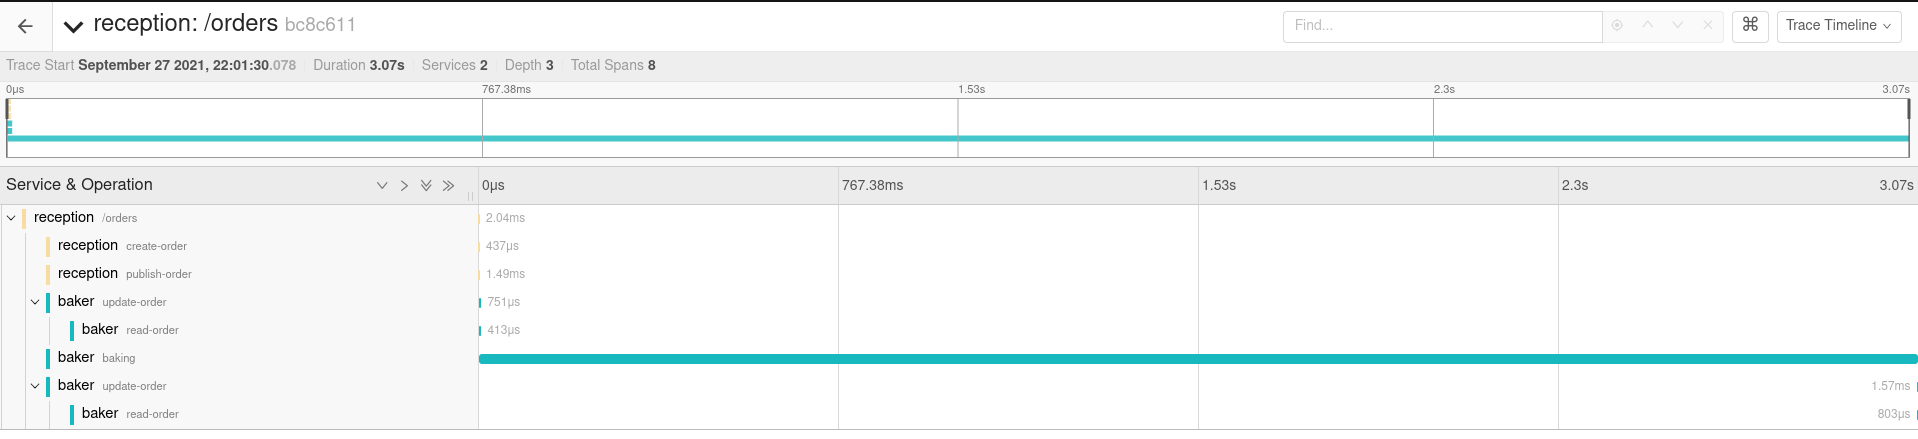
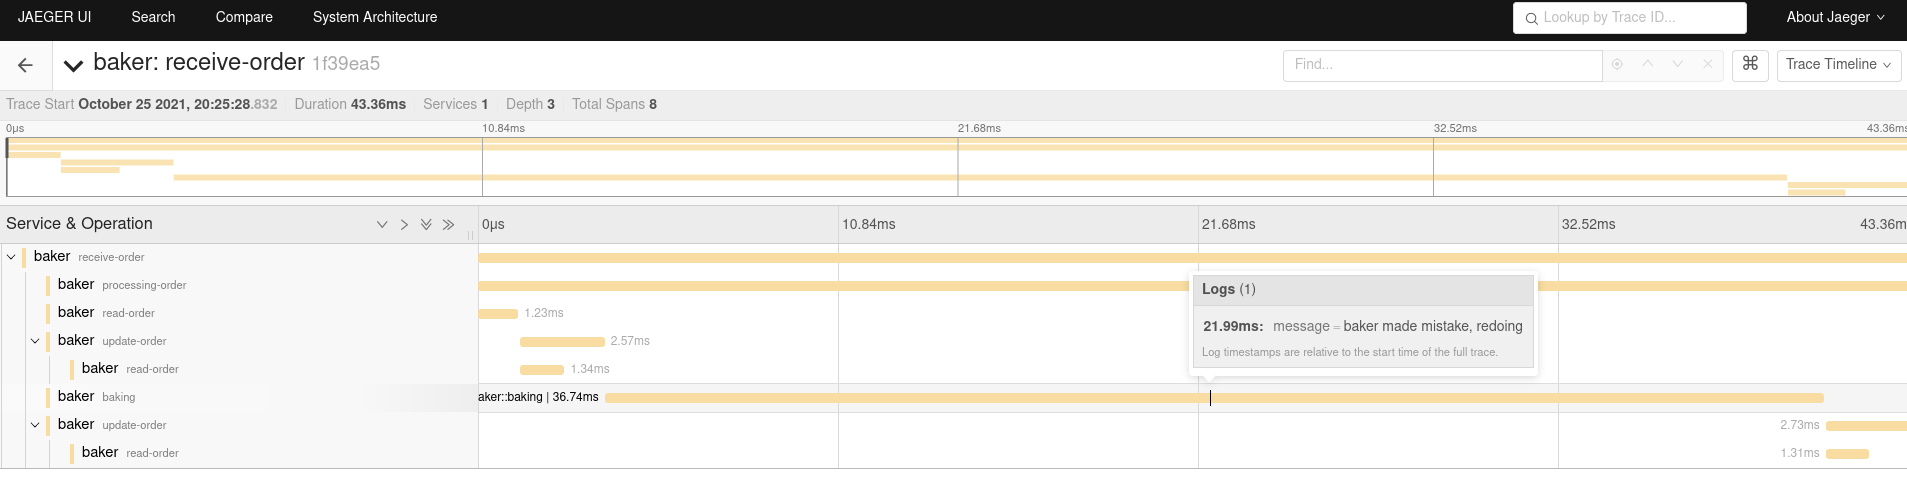
updated README, moved loadtest to become a manually triggered tilt job

Changed region(s): [[0.0, 0.1185, 1.0, 0.9772], [0.0, 0.0, 1.0, 0.1481]]

diff --git a/README.md b/README.md
@@ -1,14 +1,19 @@
 # Bakery
 
-_Bakery_ is a very simple distributed service I used to learn how to use [Tilt](https://tilt.dev/) and the [OpenTelemetry](https://opentelemetry.io/) Go API.  It consists of 4 parts:  
+
+
+_Bakery_ is a very simple distributed service I used to learn how to use [Tilt](https://tilt.dev/) and the [OpenTelemetry](https://opentelemetry.io/) Go API.  It consists of 5 parts:  
 * 'Reception' - a HTTP server that publishes to a queue  
 * 'Baker' - a queue consumer  
 * A [RabbitMQ](https://rabbitmq.com/) queue broker  
 * A [Redis](https://redis.io/) database used to persist data between the publisher and consumer  
+* An [OpenTelemetry collector](https://opentelemetry.io/docs/collector/) which is functioning as both an [agent](https://opentelemetry.io/docs/collector/getting-started/#agent) and [gateway](https://opentelemetry.io/docs/collector/getting-started/#gateway)
 
 ![Basic architecture diagram showing 'reception' using a publishing to a queue and using a database and 'baker' consuming from the queue and using the same database](doc/img/overview.png)
 
-Additionally, when run with Tilt a [Jaeger](https://www.jaegertracing.io/) service is started that 'Baker' and 'Reception' will publish traces to.
+Additionally, when run with Tilt, two additional tools are made available:  
+* a [Jaeger](https://www.jaegertracing.io/) service is started that the OpenTelemetry collector will export metrics to  
+* a [k6](https://k6.io/) job that can be manually triggered to run a loadtest
 
 ## Running  
 
@@ -76,11 +81,75 @@ $ curl -s http://localhost:8000/orders/1d5fba984abea5a7de4e2de5d1462bd3 | jq
 
 Examine traces in Jaeger by browing the exposed endpoint (http://localhost:16686):
 
-![Jaeger UI showing a full collapsed trace](doc/img/jaeger-trace.png)
+![Jaeger UI showing a full trace with a log event](doc/img/jaeger-trace.png)
 
-![Jarger UI showing expanded sections of a trace](doc/img/jaeger-expand.png)
+![Jaeger UI showing a link from a consumer trace to a producer trace](doc/img/jaeger-trace2.png)
 
-# Clean up
+![Jaeger UI showing linked producer trace](doc/img/jaeger-trace3.png)
+
+## Generating lots of data
+
+A k6 loadtest is provided to help generate enough data to meaningful interrogate the backend. Trigger the `k6` job from the UI and it will run a 15m loadtest. If you're using a service with ingest limits or that you pay for ingestion, be aware that this loadtest produces about 190k events. For the purpose of searching for traces, the `bakery.pastry` tag/attribute could have the following values:  
+
+* "croissant"  
+* "kouign-amann"  
+* "la bombe"  
+* "escargot"  
+* "almond croissant"  
+* "profiterole"  
+* "caramel tart"  
+
+## Adding different trace destinations
+
+The OpenTelemetry collector is configured by the `otel-collector-config` ConfigMap in `tilt/tracing.yaml`. For example, if you want to add Honeycomb, modify the data as following:
+
+```yaml
+---
+apiVersion: v1
+kind: ConfigMap
+metadata:
+  name: otel-collector-config
+data:
+  otel-collector-config: |
+    receivers:
+      otlp:
+        protocols:
+          grpc:
+          http:
+    exporters:
+      otlp:
+        endpoint: "jaeger:55680"
+        insecure: true
+      otlp/2:
+        endpoint: "api.honeycomb.io:443"
+        headers:
+          "x-honeycomb-team": YOUR_API_KEY
+          "x-honeycomb-dataset": YOUR_DATASET_NAME
+    processors:
+      batch:
+      memory_limiter:
+        ballast_size_mib: 165
+        limit_mib: 400
+        spike_limit_mib: 100
+        check_interval: 5s
+    extensions:
+      zpages: {}
+    service:
+      extensions:
+        - zpages
+      pipelines:
+        traces:
+          receivers:
+            - otlp
+          processors:
+            - memory_limiter
+            - batch
+          exporters:
+            - otlp
+            - otlp/2
+```
+
+## Clean up
 
 Use tilt to stop the services and delete them from your cluster:  
 
